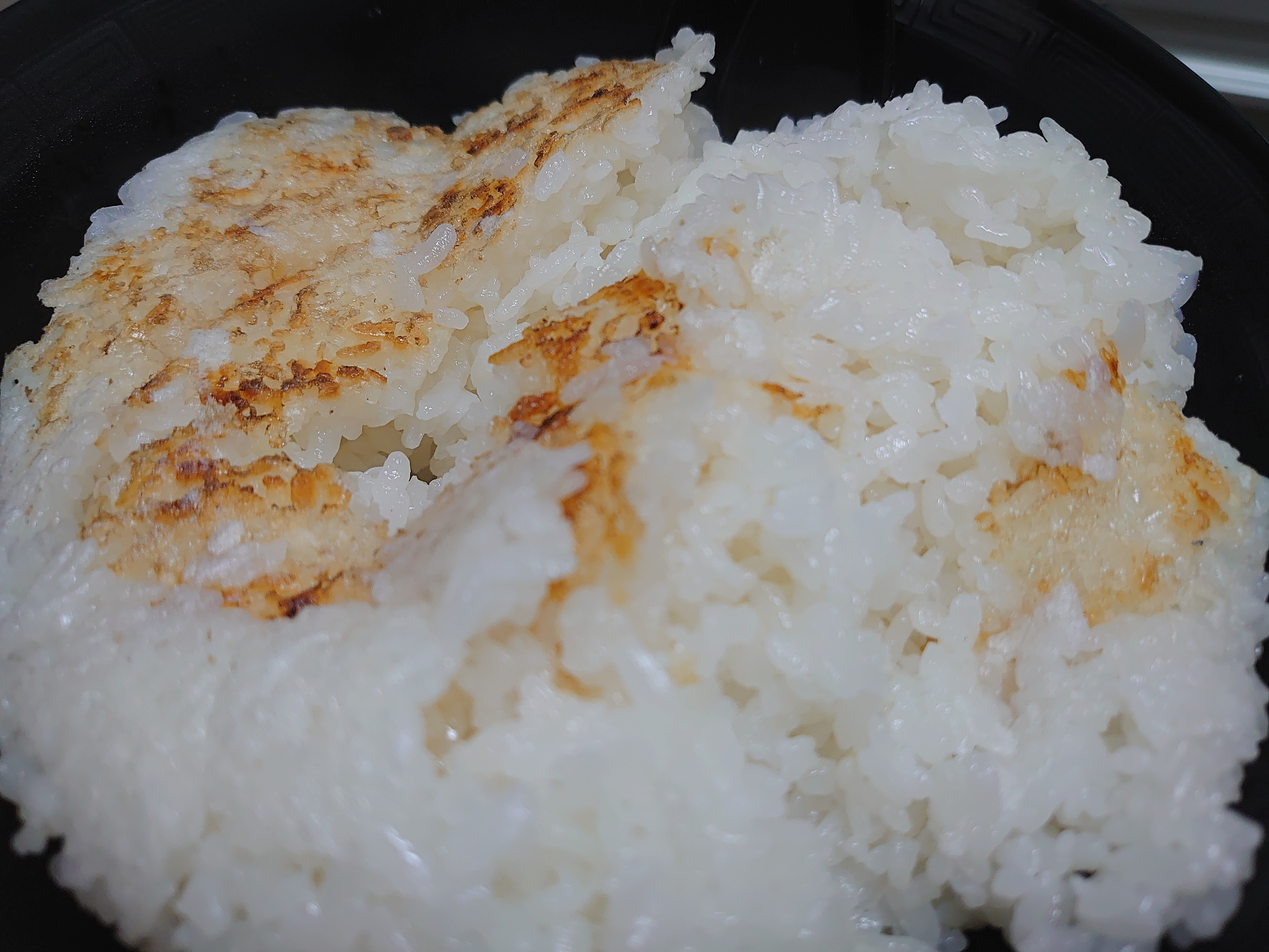
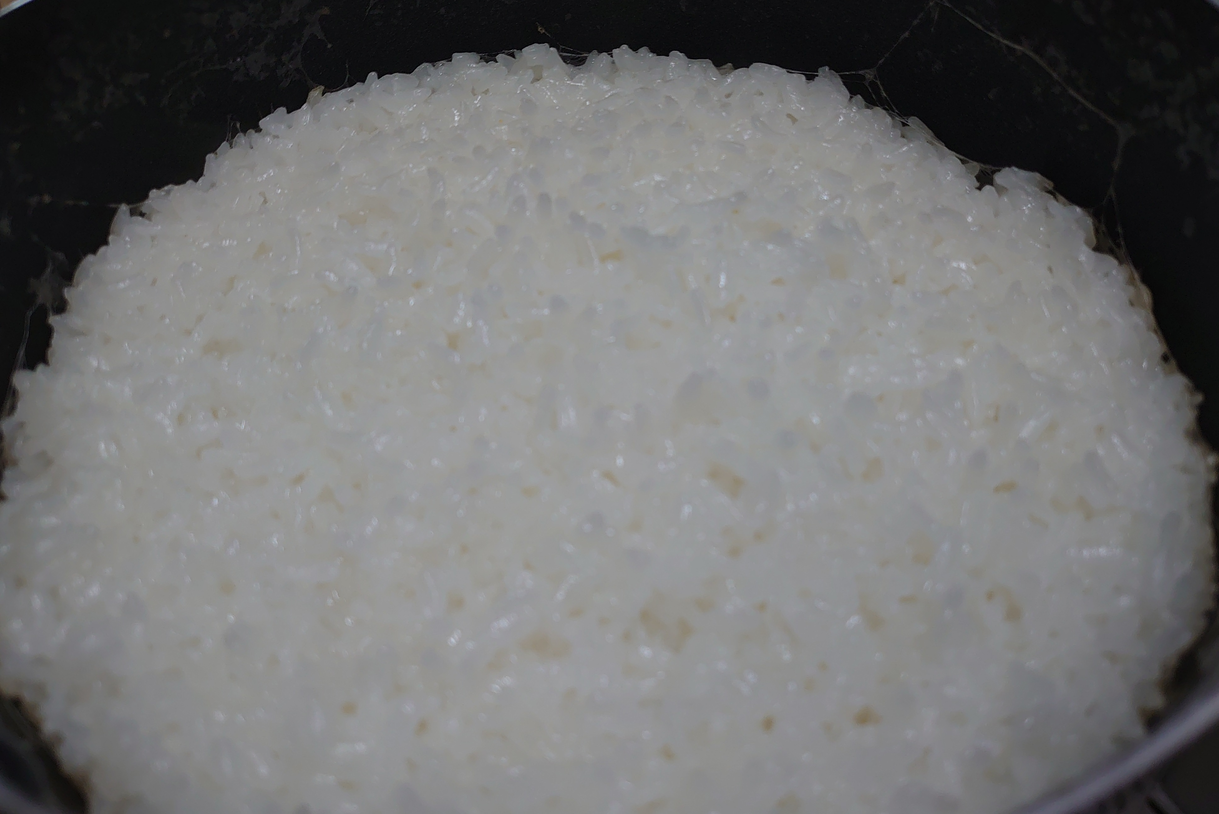
update cook_rice article

diff --git a/docs/articles/how_to_cook_rice_in_a_pot.html b/docs/articles/how_to_cook_rice_in_a_pot.html
@@ -175,9 +175,13 @@
 <p><img width="400" alt="how_to_cook_rice_in_a_pot_004" src="./imgs/how_to_cook_rice_in_a_pot_004.jpg"></p></li>
 <li><p>米を水に浸して15-20分待つ.</p>
 <ul>
-<li>水に浸した米</li>
+<li>洗い終わって水に浸す前の米</li>
 </ul>
-<p><img width="400" alt="how_to_cook_rice_in_a_pot_005" src="./imgs/how_to_cook_rice_in_a_pot_005.jpg"></p></li>
+<p><img width="400" alt="how_to_cook_rice_in_a_pot_005" src="./imgs/how_to_cook_rice_in_a_pot_005.jpg"></p>
+<ul>
+<li>水に浸した後の米</li>
+</ul>
+<p><img width="400" alt="how_to_cook_rice_in_a_pot_006" src="./imgs/how_to_cook_rice_in_a_pot_006.jpg"></p></li>
 <li><p>水を捨てる.</p></li>
 <li><p>鍋に米の1.2倍の水を入れる.</p>
 <ul>
@@ -200,9 +204,9 @@
 <li>完成.
 <ul>
 <li><p>炊いた米</p>
-<p><img width="400" alt="how_to_cook_rice_in_a_pot_006" src="./imgs/how_to_cook_rice_in_a_pot_006.jpg"></p></li>
+<p><img width="400" alt="how_to_cook_rice_in_a_pot_006" src="./imgs/how_to_cook_rice_in_a_pot_007.jpg"></p></li>
 <li><p>お焦げ</p>
-<p><img width="400" alt="how_to_cook_rice_in_a_pot_007" src="./imgs/how_to_cook_rice_in_a_pot_007.jpg"></p></li>
+<p><img width="400" alt="how_to_cook_rice_in_a_pot_007" src="./imgs/how_to_cook_rice_in_a_pot_008.jpg"></p></li>
 </ul></li>
 </ol>
 <p><br></p>
